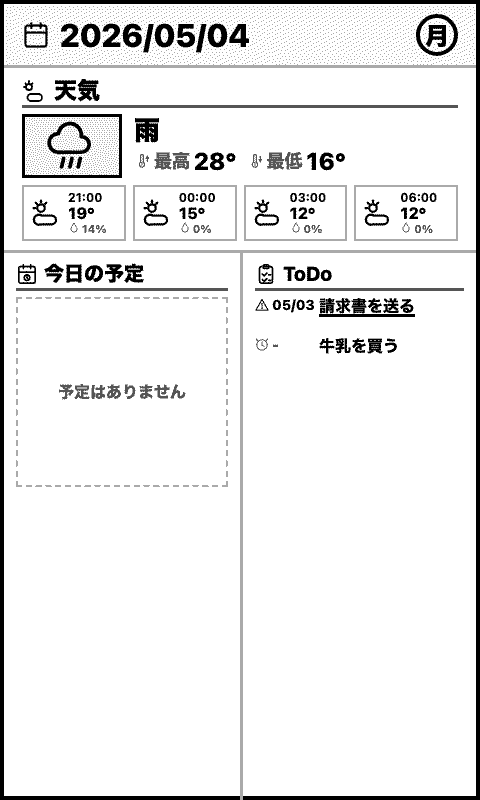
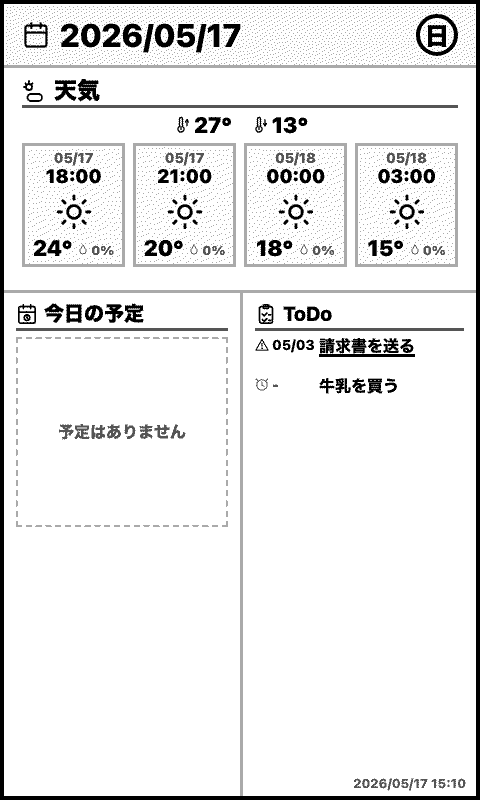
feat: 時間帯ごとの天気予報を3時間ごとにフィルタリングし、テストを更新

diff --git a/tests/test_weather.py b/tests/test_weather.py
@@ -19,7 +19,7 @@ def test_describe_weather_maps_wmo_codes() -> None:
     assert describe_weather(999) == ("曇り", "cloud")
 
 
-def test_parse_open_meteo_forecast_uses_daily_and_upcoming_hourly_values() -> None:
+def test_parse_open_meteo_forecast_uses_daily_and_upcoming_three_hourly_values() -> None:
     payload = {
         "daily": {
             "time": ["2026-05-17", "2026-05-18"],
@@ -36,10 +36,18 @@ def test_parse_open_meteo_forecast_uses_daily_and_upcoming_hourly_values() -> No
                 "2026-05-17T14:00",
                 "2026-05-17T15:00",
                 "2026-05-17T16:00",
+                "2026-05-17T17:00",
+                "2026-05-17T18:00",
+                "2026-05-17T19:00",
+                "2026-05-17T20:00",
+                "2026-05-17T21:00",
+                "2026-05-17T22:00",
+                "2026-05-17T23:00",
+                "2026-05-18T00:00",
             ],
-            "temperature_2m": [25.5, 26.5, 27.1, 27.3, 26.9, 26.5],
-            "precipitation_probability": [0, 0, 10, 20, 30, 40],
-            "weather_code": [0, 0, 1, 3, 61, 95],
+            "temperature_2m": [25.5, 26.5, 27.1, 27.3, 26.9, 26.5, 26.1, 25.8, 25.0, 24.5, 24.0, 23.5, 23.3, 23.2],
+            "precipitation_probability": [0, 0, 10, 20, 30, 40, 45, 50, 60, 65, 70, 75, 78, 80],
+            "weather_code": [0, 0, 1, 3, 61, 95, 0, 1, 3, 61, 95, 3, 1, 0],
         },
     }
     now = datetime(2026, 5, 17, 12, 30, tzinfo=ZoneInfo("Asia/Tokyo"))
@@ -51,14 +59,14 @@ def test_parse_open_meteo_forecast_uses_daily_and_upcoming_hourly_values() -> No
     assert forecast.daily.precipitation_probability == 10
     assert forecast.daily.label == "晴れ"
     assert [hour.time for hour in forecast.hourly] == [
-        datetime(2026, 5, 17, 13, 0, tzinfo=TOKYO_TZ),
-        datetime(2026, 5, 17, 14, 0, tzinfo=TOKYO_TZ),
         datetime(2026, 5, 17, 15, 0, tzinfo=TOKYO_TZ),
-        datetime(2026, 5, 17, 16, 0, tzinfo=TOKYO_TZ),
+        datetime(2026, 5, 17, 18, 0, tzinfo=TOKYO_TZ),
+        datetime(2026, 5, 17, 21, 0, tzinfo=TOKYO_TZ),
+        datetime(2026, 5, 18, 0, 0, tzinfo=TOKYO_TZ),
     ]
-    assert [hour.temperature for hour in forecast.hourly] == [27.1, 27.3, 26.9, 26.5]
-    assert [hour.precipitation_probability for hour in forecast.hourly] == [10, 20, 30, 40]
-    assert [hour.icon for hour in forecast.hourly] == ["partly", "cloud", "rain", "storm"]
+    assert [hour.temperature for hour in forecast.hourly] == [26.9, 25.8, 24.0, 23.2]
+    assert [hour.precipitation_probability for hour in forecast.hourly] == [30, 50, 70, 80]
+    assert [hour.icon for hour in forecast.hourly] == ["rain", "partly", "storm", "sun"]
 
 
 def test_parse_open_meteo_forecast_uses_next_daily_when_today_is_missing() -> None:
@@ -71,7 +79,7 @@ def test_parse_open_meteo_forecast_uses_next_daily_when_today_is_missing() -> No
             "precipitation_probability_max": [40],
         },
         "hourly": {
-            "time": ["2026-05-17T13:00"],
+            "time": ["2026-05-17T15:00"],
             "temperature_2m": [27.1],
             "precipitation_probability": [10],
             "weather_code": [1],

diff --git a/app/weather.py b/app/weather.py
@@ -130,6 +130,8 @@ def _hourly_forecasts(*, hourly: dict[str, Any], current: datetime) -> list[Hour
         forecast_time = _parse_datetime(str(time_text))
         if forecast_time < current:
             continue
+        if forecast_time.hour % 3 != 0:
+            continue
         code = int(weather_code)
         label, icon = describe_weather(code)
         forecasts.append(
